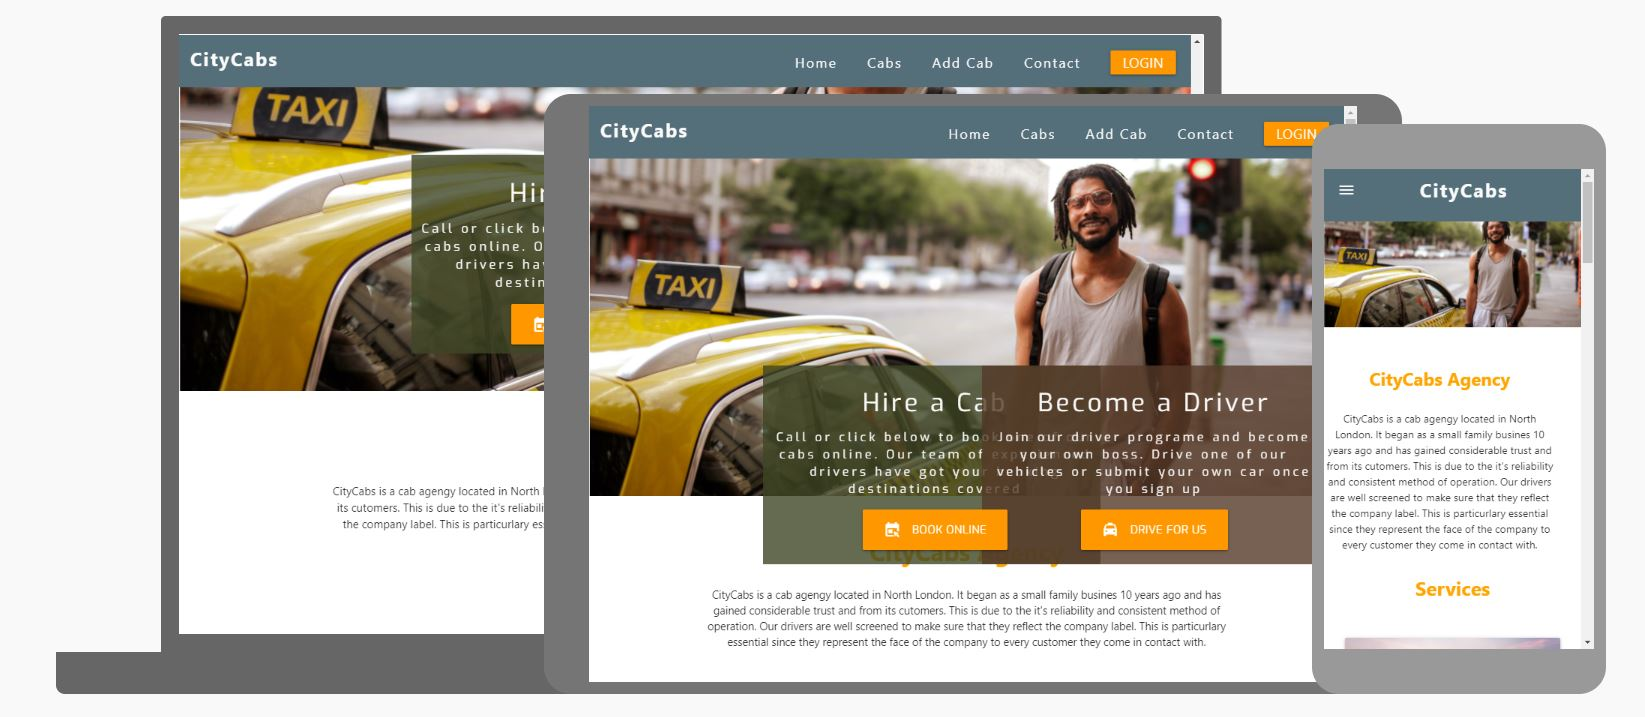
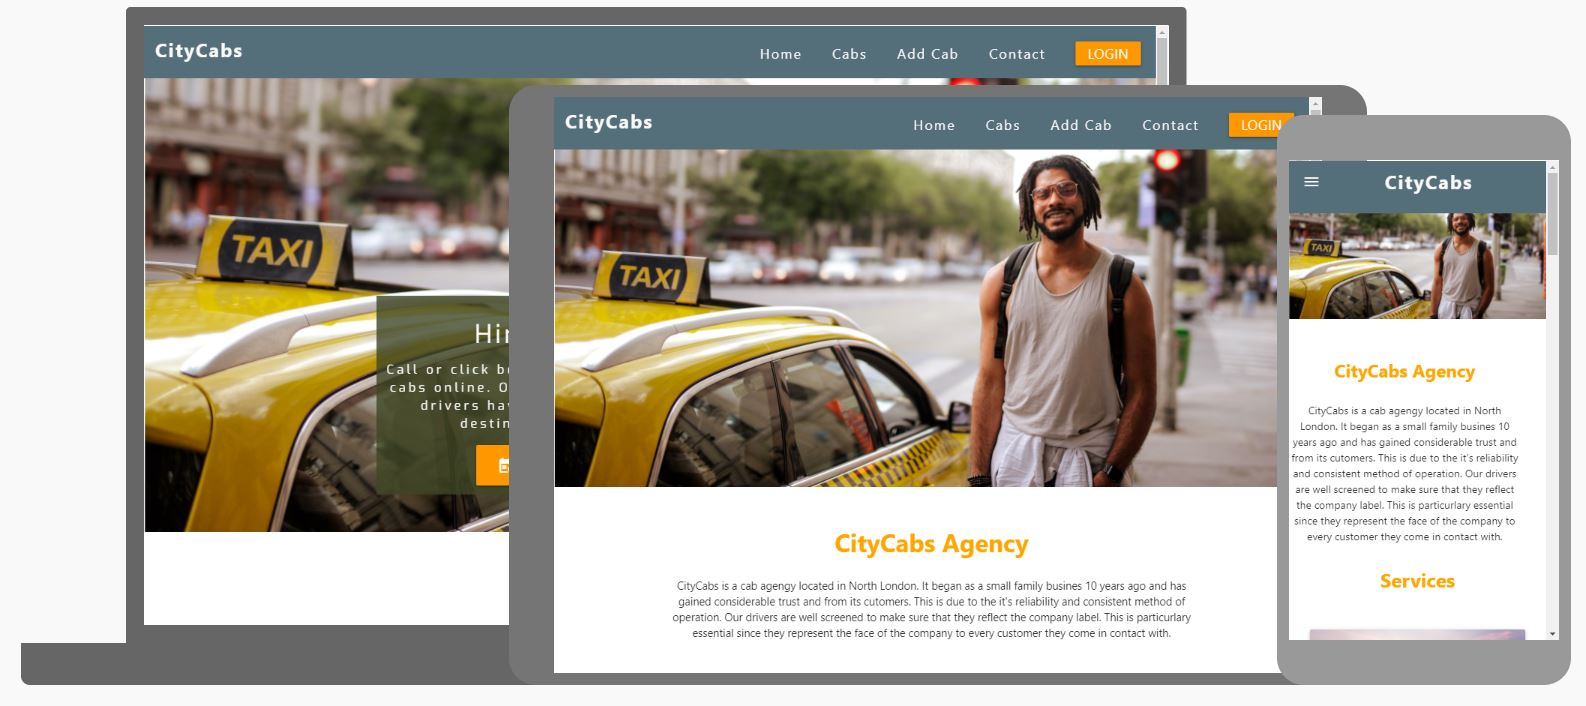
add new demo.png file

diff --git a/static/css/style.css b/static/css/style.css
@@ -534,6 +534,17 @@ footer p {
 
 /*-------------Media Queries------------*/
 
+@media screen and (max-width: 1350px) {
+    #cover-text {
+    display: none;
+  }
+
+  #driver-text {
+    display: none;
+  }
+
+}
+
 @media screen and (max-width: 743px) {
   .container-cover {
     height: auto;
